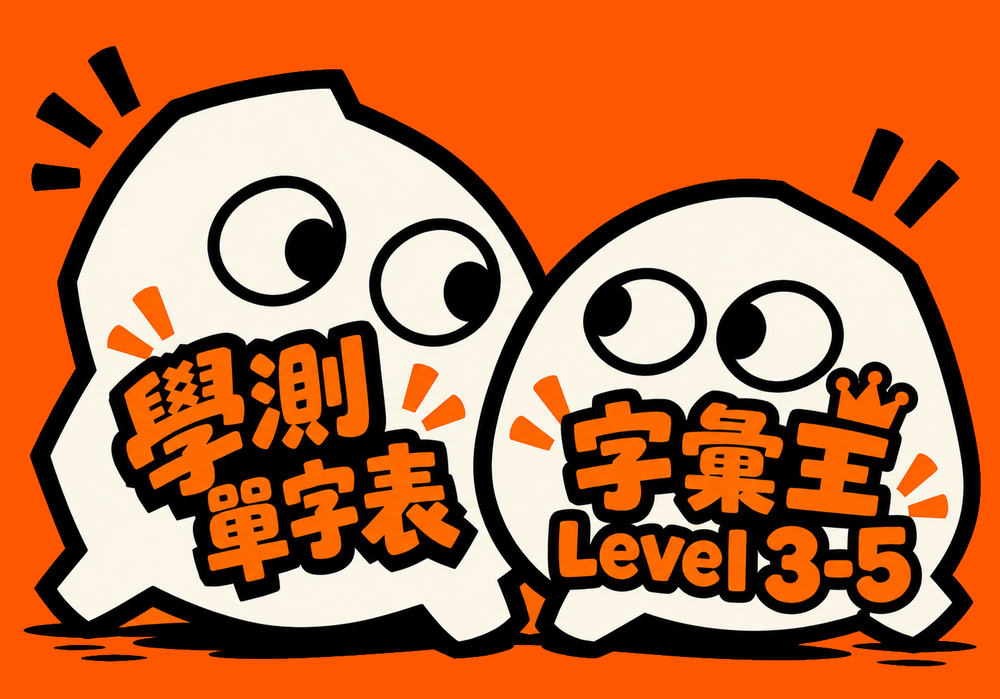
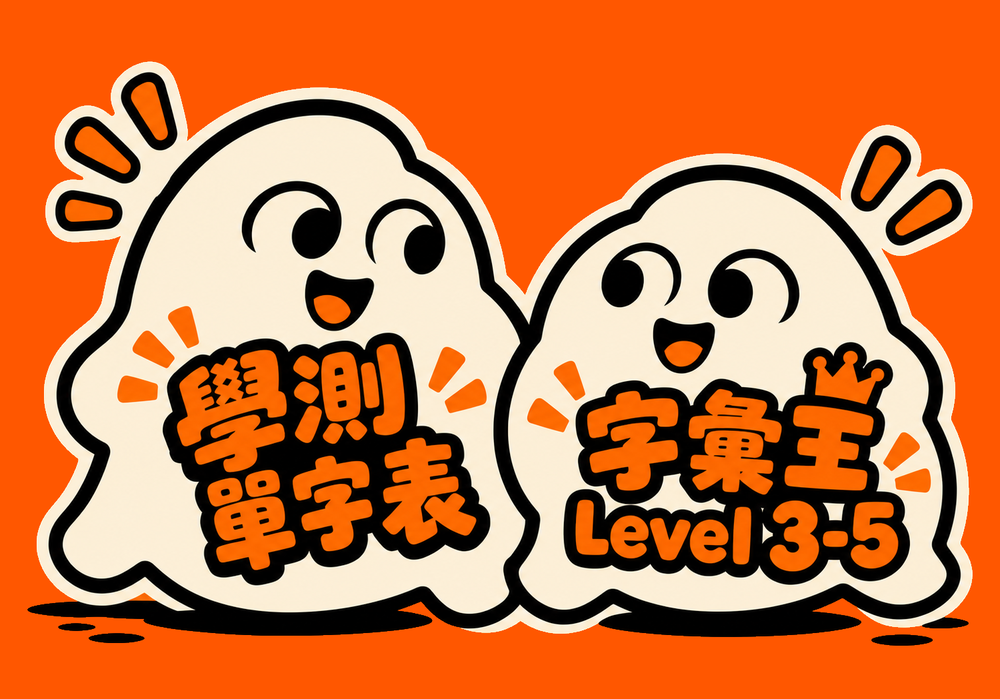
Landing: new smiling ghost duo, background matched to #FF5700
Claude-Session: https://claude.ai/code/session_01QGTapFC3YDu8pRrL5JjrQ3

diff --git a/sw.js b/sw.js
@@ -1,5 +1,5 @@
 // Offline cache. Bump VERSION when files change so students get the update.
-const VERSION = 'v50';
+const VERSION = 'v51';
 const CORE = ['./', 'index.html', 'style.css', 'app.js', 'lib/ts-fsrs.umd.js', 'manifest.webmanifest', 'icons/icon.svg', 'icons/icon-180.png', 'icons/icon-192.png', 'icons/icon-512.png', 'icons/landing.png', 'icons/landing-duo.png', 'icons/logo.png', 'icons/tab0.png', 'icons/tab1.png', 'icons/tab2.png', 'icons/tab3.png', 'icons/tab4.png', 'data/gsat.json', 'data/material.json', 'data/questions.json'];
 self.addEventListener('install', e => { e.waitUntil(caches.open(VERSION).then(c => c.addAll(CORE)).then(() => self.skipWaiting())); });
 self.addEventListener('activate', e => { e.waitUntil(caches.keys().then(ks => Promise.all(ks.filter(k => k !== VERSION).map(k => caches.delete(k)))).then(() => self.clients.claim())); });
